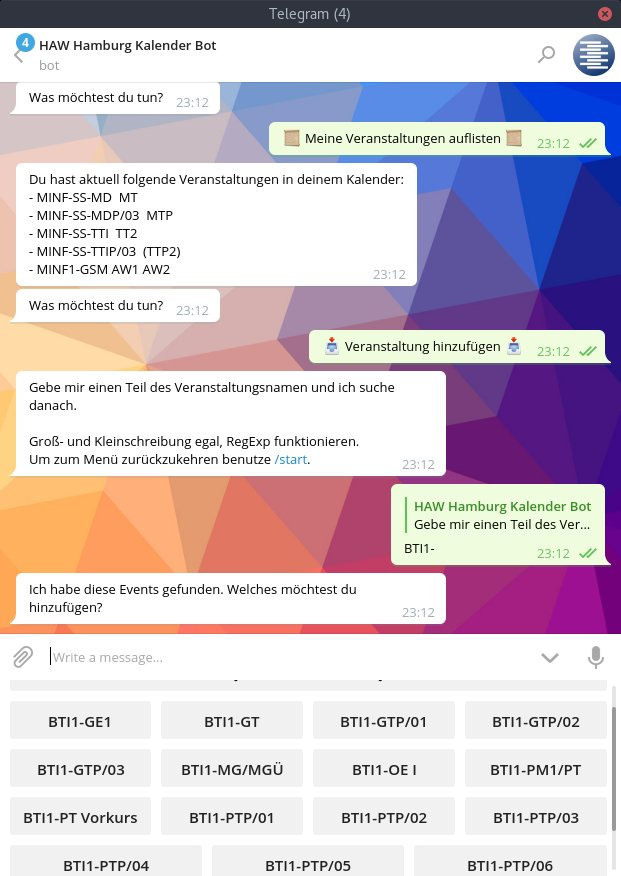
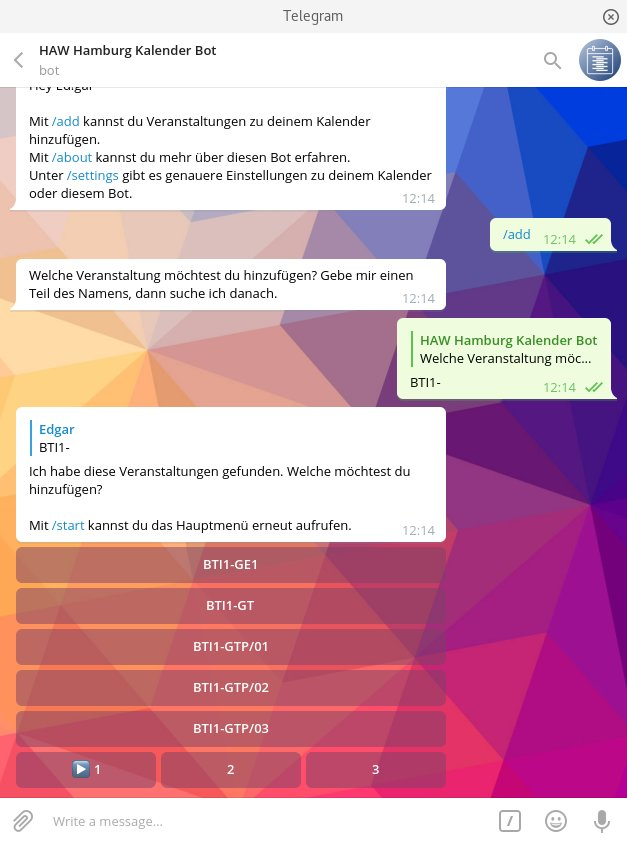
feat: adapt to telegram bot v2

diff --git a/index.html b/index.html
@@ -51,12 +51,12 @@
     </p>
     <h2>iOS/ macOS/ Desktop Browser</h2>
     <p>
-      Geh im Bot auf <code>Kalender URL anfordern</code> und öffne den iOS Link. Klicke/ tippe in der sich öffnenden Website auf <code>Subscribe Calendar</code>.
+      Sobald du eine Veranstaltung hinzugefügt hast, benutze <code>/start</code> und wähle dann <code>Kalender abonnieren</code>. Klicke/ tippe in der sich öffnenden Website auf <code>Subscribe Calendar</code>.
       <img src="/assets/ios.jpg" alt="Calendar Bot auf iOS" />
     </p>
     <h2>Android/ Google Kalender</h2>
     <p>
-      Android bezieht seine Informationen aus dem Google Kalender. Um den Kalender hinzufügen gehst du auf <a href="https://calendar.google.com" target="_blank">calendar.google.com</a> (meldest dich an) und fügst dann auf der linken Seite unter <code>Other calendars</code>      -> <code>Add by URL</code> den Kalender Link hinzu, den du im Bot unter <code>Kalender URL anfordern</code> erhältst.
+      Android bezieht seine Informationen aus dem Google Kalender. Um den Kalender hinzufügen gehst du auf <a href="https://calendar.google.com" target="_blank">calendar.google.com</a> (meldest dich an) und fügst dann auf der linken Seite unter <code>Other calendars</code>      -> <code>Add by URL</code> den Kalender Link hinzu, den du im Bot unter <code>/start</code> erhältst.
     </p>
 
     <h1>Behind the Scenes</h1>
